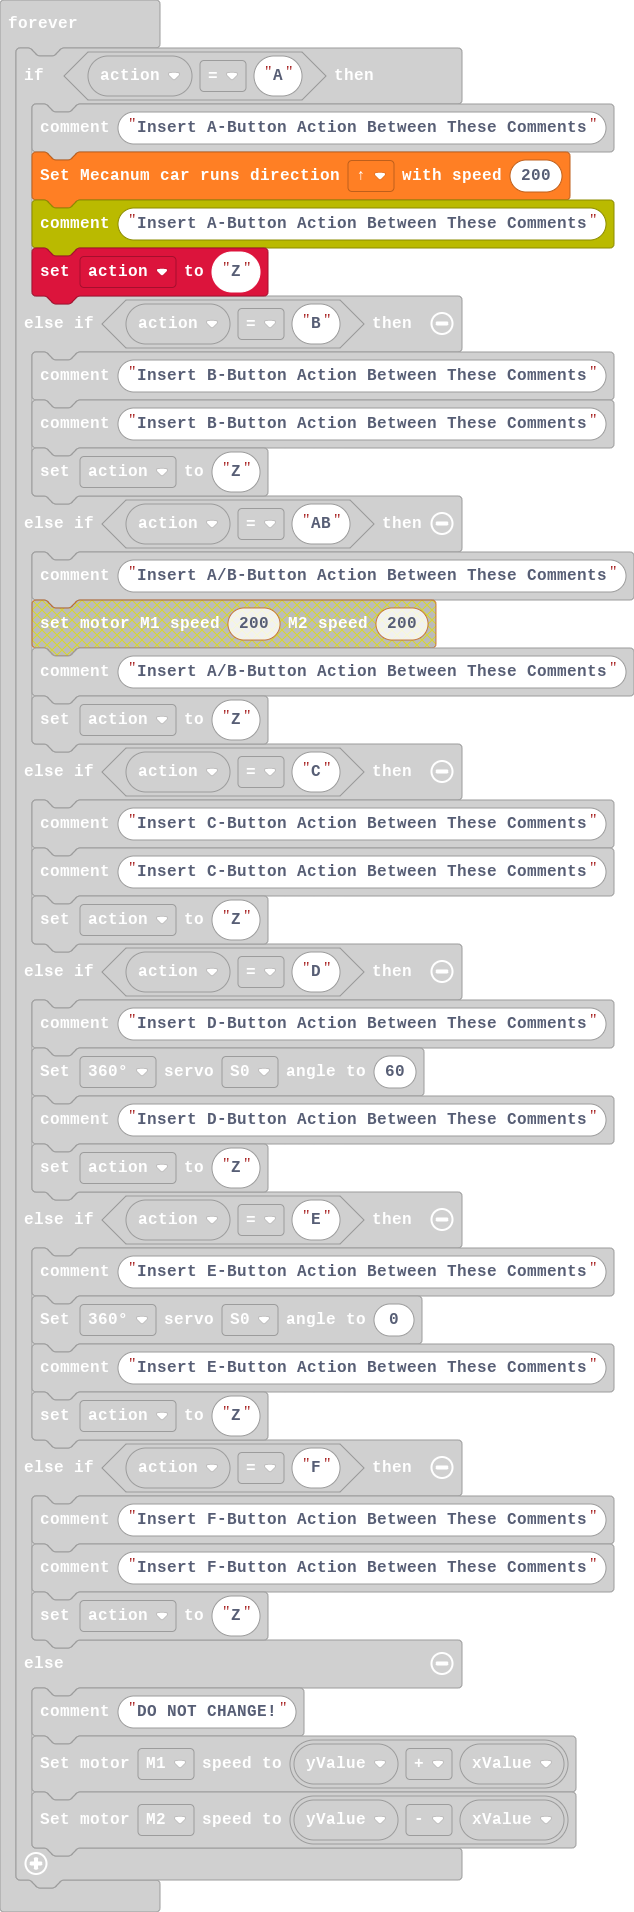
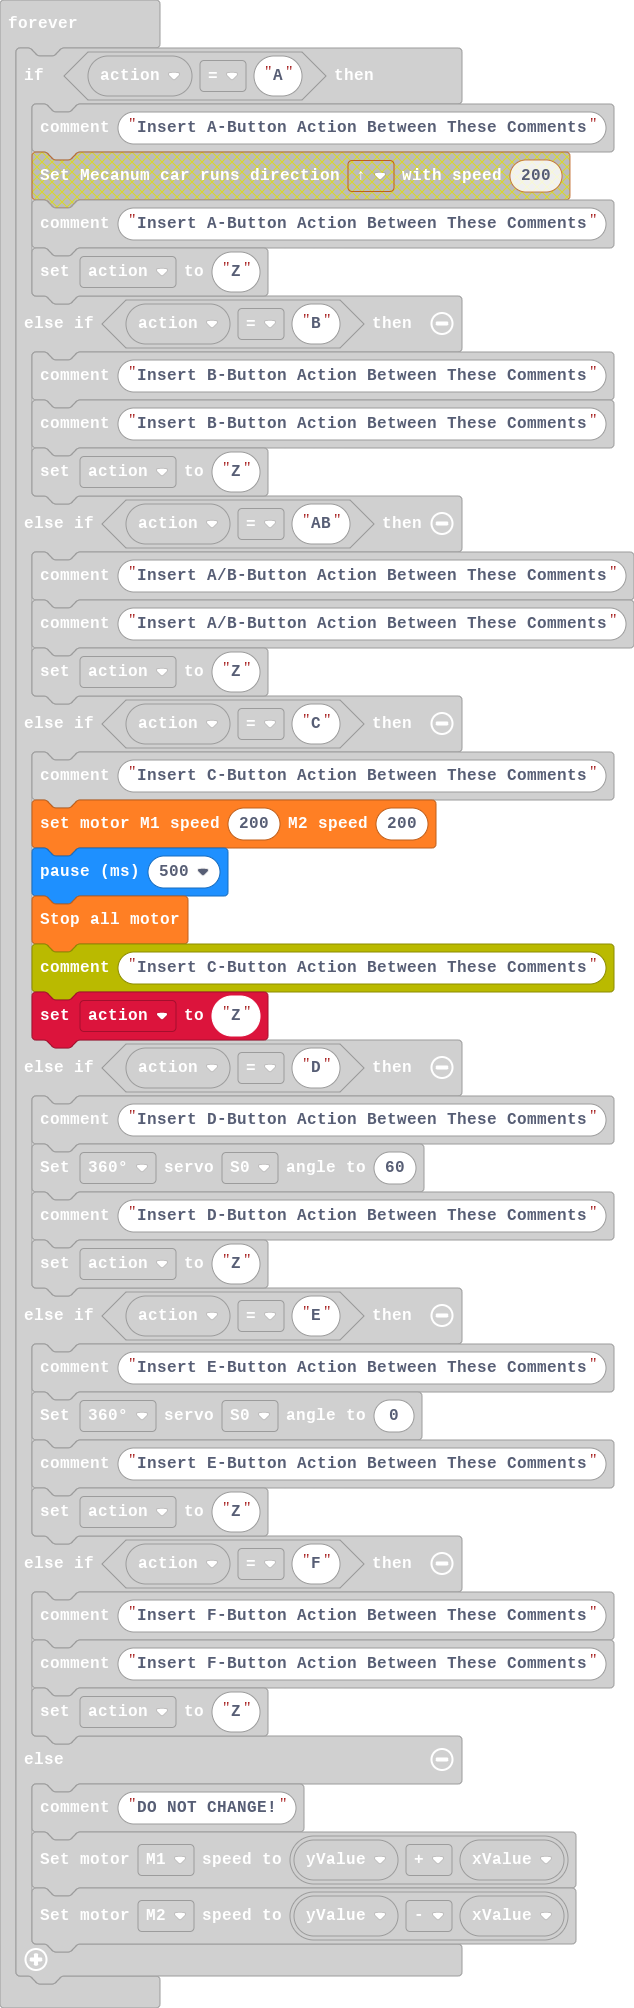
Update main.blocks, main.ts

diff --git a/main.ts b/main.ts
@@ -38,7 +38,6 @@ basic.showString("R")
 basic.forever(function () {
     if (action == "A") {
         comment.comment("Insert A-Button Action Between These Comments")
-        wuKong.mecanumRun(wuKong.RunList.Front, 200)
         comment.comment("Insert A-Button Action Between These Comments")
         action = "Z"
     } else if (action == "B") {
@@ -51,6 +50,9 @@ basic.forever(function () {
         action = "Z"
     } else if (action == "C") {
         comment.comment("Insert C-Button Action Between These Comments")
+        wuKong.setAllMotor(200, 200)
+        basic.pause(500)
+        wuKong.stopAllMotor()
         comment.comment("Insert C-Button Action Between These Comments")
         action = "Z"
     } else if (action == "D") {
